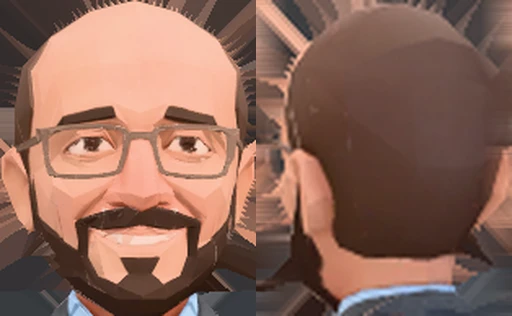
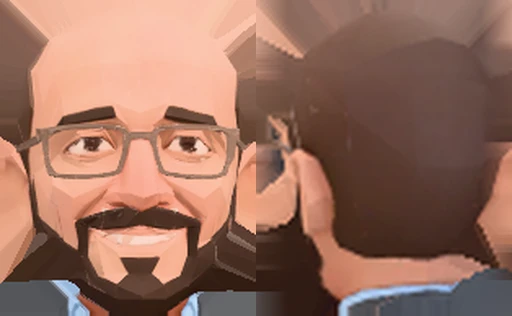
Julo desde todos los ángulos y kipá negra grande para Faur
- Julo: frente de su imagen limpia, perfiles izquierdo y derecho (profundidad real de cabeza y torso
  y textura de los costados), espalda lisa con cinturón y brazos más gruesos
- El armado de cabeza y torso acepta perfiles de costado (cuatro paneles de textura)
- Faur: kipá negra y grande sobre la coronilla

Claude-Session: https://claude.ai/code/session_01GR3Q3hi2WhZwo1w7uuPhJy

diff --git a/shared/public/caras/datos.js b/shared/public/caras/datos.js
@@ -1,3 +1,3 @@
 // Generado desde las capturas de los modelos de Meshy (silueta de frente de cabeza y torso, en metros).
 // No editar a mano: lo arma scripts/caras/texturas.py. Las texturas están al lado: <id>-cabeza.webp, <id>-torso.webp.
-export const DATOS = {"mati":{"cabeza":{"perfil":[[0.0,-0.0572,0.0754],[0.0344,-0.1204,0.1228],[0.0689,-0.1569,0.1679],[0.1033,-0.1812,0.1934],[0.1377,-0.1995,0.2031],[0.1722,-0.2007,0.2043],[0.2066,-0.2007,0.2043],[0.2411,-0.2043,0.208],[0.2755,-0.2043,0.208],[0.3099,-0.2043,0.208],[0.3444,-0.1995,0.2031],[0.3788,-0.191,0.1946],[0.4132,-0.1776,0.1812],[0.4477,-0.1618,0.163],[0.4821,-0.1447,0.1472],[0.5165,-0.1241,0.1253],[0.551,-0.0961,0.0961]],"x0":-0.2043,"x1":0.208,"alto":0.5546},"piel":"#f4c099","pelo":"#443229","cabezaAlto":0.551},"glinsky":{"cabeza":{"perfil":[[0.0,-0.0091,0.0272],[0.0374,-0.1213,0.1281],[0.0748,-0.1825,0.1836],[0.1122,-0.2176,0.2165],[0.1496,-0.2392,0.2426],[0.187,-0.2517,0.2528],[0.2244,-0.2607,0.2585],[0.2619,-0.2687,0.2653],[0.2993,-0.2687,0.2721],[0.3367,-0.2721,0.2755],[0.3741,-0.2698,0.2755],[0.4115,-0.263,0.2675],[0.4489,-0.2494,0.2562],[0.4863,-0.2301,0.246],[0.5237,-0.2086,0.2358],[0.5611,-0.187,0.2244],[0.5985,-0.1644,0.2142]],"x0":-0.2721,"x1":0.2789,"alto":0.6019},"piel":"#fbb294","pelo":"#c2bfbf","cabezaAlto":0.5985,"torso":{"perfil":[[0.0,-0.1621,0.1689],[0.0592,-0.1836,0.1927],[0.1183,-0.2959,0.3004],[0.1775,-0.3197,0.3242],[0.2367,-0.3446,0.348],[0.2959,-0.3673,0.3695],[0.355,-0.3843,0.3843],[0.4142,-0.3843,0.3843],[0.4734,-0.3843,0.3843],[0.5326,-0.2494,0.2539],[0.5917,-0.2324,0.2415]],"x0":-0.3843,"x1":0.3843,"alto":0.5951},"prenda":"#7eafe6"},"julo":{"cabeza":{"perfil":[[0.0,-0.0079,0.0168],[0.0318,-0.0887,0.0944],[0.0636,-0.1415,0.1516],[0.0954,-0.1651,0.173],[0.1272,-0.182,0.1887],[0.159,-0.191,0.1966],[0.1908,-0.2011,0.2056],[0.2226,-0.21,0.2123],[0.2544,-0.2202,0.2213],[0.2862,-0.2224,0.2224],[0.318,-0.2179,0.2202],[0.3498,-0.2011,0.2044],[0.3816,-0.1842,0.1898],[0.4134,-0.1629,0.1707],[0.4452,-0.1427,0.1528],[0.477,-0.1191,0.1292],[0.5088,-0.0988,0.109]],"x0":-0.2224,"x1":0.2224,"alto":0.5122},"piel":"#eca07e","pelo":"#eaae8b","cabezaAlto":0.5088},"dobro":{"cabeza":{"perfil":[[0.0,-0.017,0.0136],[0.0306,-0.0918,0.093],[0.0612,-0.1258,0.1258],[0.0918,-0.1485,0.1496],[0.1224,-0.1564,0.1576],[0.153,-0.1644,0.1655],[0.1836,-0.17,0.17],[0.2142,-0.1757,0.1757],[0.2449,-0.1802,0.1802],[0.2755,-0.1836,0.1836],[0.3061,-0.187,0.187],[0.3367,-0.187,0.187],[0.3673,-0.187,0.187],[0.3979,-0.1904,0.1904],[0.4285,-0.1904,0.1904],[0.4591,-0.1938,0.1938],[0.4897,-0.1938,0.1938]],"x0":-0.1938,"x1":0.1938,"alto":0.4931},"piel":"#f3bb9e","pelo":"#695142","cabezaAlto":0.4897,"torso":{"perfil":[[0.0,-0.1927,0.1961],[0.0639,-0.1904,0.1825],[0.1279,-0.2539,0.2403],[0.1918,-0.2732,0.2585],[0.2557,-0.3106,0.3004],[0.3197,-0.2959,0.2823],[0.3836,-0.3106,0.297],[0.4475,-0.3129,0.3106],[0.5115,-0.3129,0.3095],[0.5754,-0.3129,0.3095],[0.6393,-0.3106,0.3049]],"x0":-0.3129,"x1":0.3129,"alto":0.6427},"prenda":"#191815"},"faur":{"cabeza":{"perfil":[[0.0,-0.0079,0.0282],[0.0408,-0.1161,0.133],[0.0816,-0.1725,0.1894],[0.1224,-0.2097,0.2198],[0.1632,-0.23,0.2379],[0.204,-0.239,0.2469],[0.2448,-0.248,0.2537],[0.2856,-0.257,0.2582],[0.3264,-0.2672,0.2638],[0.3672,-0.2661,0.2638],[0.408,-0.2514,0.2537],[0.4488,-0.2379,0.2424],[0.4896,-0.2232,0.2322],[0.5304,-0.2086,0.221],[0.5711,-0.1939,0.2108],[0.6119,-0.1804,0.1995],[0.6527,-0.1657,0.1894]],"x0":-0.2672,"x1":0.2638,"alto":0.6561},"piel":"#f2a086","pelo":"#fbc3ab","cabezaAlto":0.6527,"torso":{"perfil":[[0.0,-0.1984,0.2018],[0.0538,-0.2976,0.2988],[0.1076,-0.3145,0.3179],[0.1613,-0.3314,0.3371],[0.2151,-0.3506,0.2334],[0.2689,-0.2131,0.2266],[0.3227,-0.2232,0.2255],[0.3764,-0.2277,0.2334],[0.4302,-0.2289,0.2266],[0.484,-0.2367,0.2367],[0.5378,-0.2367,0.2266]],"x0":-0.3551,"x1":0.3484,"alto":0.5411},"prenda":"#403e40"}};
+export const DATOS = {"mati":{"cabeza":{"perfil":[[0.0,-0.0572,0.0754],[0.0344,-0.1204,0.1228],[0.0689,-0.1569,0.1679],[0.1033,-0.1812,0.1934],[0.1377,-0.1995,0.2031],[0.1722,-0.2007,0.2043],[0.2066,-0.2007,0.2043],[0.2411,-0.2043,0.208],[0.2755,-0.2043,0.208],[0.3099,-0.2043,0.208],[0.3444,-0.1995,0.2031],[0.3788,-0.191,0.1946],[0.4132,-0.1776,0.1812],[0.4477,-0.1618,0.163],[0.4821,-0.1447,0.1472],[0.5165,-0.1241,0.1253],[0.551,-0.0961,0.0961]],"x0":-0.2043,"x1":0.208,"alto":0.5546},"piel":"#f4c099","pelo":"#443229","cabezaAlto":0.551},"glinsky":{"cabeza":{"perfil":[[0.0,-0.0091,0.0272],[0.0374,-0.1213,0.1281],[0.0748,-0.1825,0.1836],[0.1122,-0.2176,0.2165],[0.1496,-0.2392,0.2426],[0.187,-0.2517,0.2528],[0.2244,-0.2607,0.2585],[0.2619,-0.2687,0.2653],[0.2993,-0.2687,0.2721],[0.3367,-0.2721,0.2755],[0.3741,-0.2698,0.2755],[0.4115,-0.263,0.2675],[0.4489,-0.2494,0.2562],[0.4863,-0.2301,0.246],[0.5237,-0.2086,0.2358],[0.5611,-0.187,0.2244],[0.5985,-0.1644,0.2142]],"x0":-0.2721,"x1":0.2789,"alto":0.6019},"piel":"#fbb294","pelo":"#c2bfbf","cabezaAlto":0.5985,"torso":{"perfil":[[0.0,-0.1621,0.1689],[0.0592,-0.1836,0.1927],[0.1183,-0.2959,0.3004],[0.1775,-0.3197,0.3242],[0.2367,-0.3446,0.348],[0.2959,-0.3673,0.3695],[0.355,-0.3843,0.3843],[0.4142,-0.3843,0.3843],[0.4734,-0.3843,0.3843],[0.5326,-0.2494,0.2539],[0.5917,-0.2324,0.2415]],"x0":-0.3843,"x1":0.3843,"alto":0.5951},"prenda":"#7eafe6"},"julo":{"cabeza":{"perfil":[[0.0,-0.0258,0.0339,-0.1021,-0.0578],[0.0399,-0.1315,0.1369,-0.2329,0.055],[0.0798,-0.1857,0.1897,-0.2893,0.1203],[0.1197,-0.2128,0.2168,-0.3191,0.153],[0.1596,-0.2304,0.2345,-0.3369,0.1738],[0.1995,-0.2399,0.2453,-0.3547,0.1886],[0.2394,-0.2521,0.2575,-0.3696,0.1886],[0.2793,-0.2629,0.2684,-0.3844,0.1886],[0.3192,-0.2724,0.2792,-0.3904,0.1827],[0.3591,-0.2765,0.2805,-0.3992,0.1796],[0.399,-0.2656,0.2724,-0.4052,0.1767],[0.4389,-0.2507,0.2575,-0.4022,0.1708],[0.4788,-0.2304,0.2426,-0.3814,0.1678],[0.5187,-0.2101,0.2263,-0.3607,0.1618],[0.5586,-0.1938,0.2128,-0.3369,0.1589],[0.5985,-0.1735,0.1979,-0.3191,0.1559],[0.6384,-0.1545,0.183,-0.2448,0.1499]],"x0":-0.2765,"x1":0.2805,"alto":0.6424,"lados":{"izq":[-0.4129,0.1845],"der":[-0.3975,0.1927]}},"piel":"#e9b296","pelo":"#efc4ab","cabezaAlto":0.6384,"torso":{"perfil":[[0.0,-0.1938,0.1979,-0.153,0.1559],[0.0598,-0.3049,0.3063,-0.2064,0.1677],[0.1195,-0.3321,0.3348,-0.2213,0.1856],[0.1793,-0.2697,0.2697,-0.2272,0.1855],[0.2391,-0.2277,0.2277,-0.2063,0.1826],[0.2988,-0.2277,0.2277,-0.1885,0.1855],[0.3586,-0.2277,0.2277,-0.1707,0.1855],[0.4184,-0.2277,0.2277,-0.1558,0.1945],[0.4782,-0.2277,0.2277,-0.1737,0.1975],[0.5379,-0.2277,0.2277,-0.2032,0.1856],[0.5977,-0.2277,0.2277,-0.209,0.1796]],"x0":-0.3537,"x1":0.3537,"alto":0.6018},"prenda":"#5d372f"},"dobro":{"cabeza":{"perfil":[[0.0,-0.017,0.0136],[0.0306,-0.0918,0.093],[0.0612,-0.1258,0.1258],[0.0918,-0.1485,0.1496],[0.1224,-0.1564,0.1576],[0.153,-0.1644,0.1655],[0.1836,-0.17,0.17],[0.2142,-0.1757,0.1757],[0.2449,-0.1802,0.1802],[0.2755,-0.1836,0.1836],[0.3061,-0.187,0.187],[0.3367,-0.187,0.187],[0.3673,-0.187,0.187],[0.3979,-0.1904,0.1904],[0.4285,-0.1904,0.1904],[0.4591,-0.1938,0.1938],[0.4897,-0.1938,0.1938]],"x0":-0.1938,"x1":0.1938,"alto":0.4931},"piel":"#f3bb9e","pelo":"#695142","cabezaAlto":0.4897,"torso":{"perfil":[[0.0,-0.1927,0.1961],[0.0639,-0.1904,0.1825],[0.1279,-0.2539,0.2403],[0.1918,-0.2732,0.2585],[0.2557,-0.3106,0.3004],[0.3197,-0.2959,0.2823],[0.3836,-0.3106,0.297],[0.4475,-0.3129,0.3106],[0.5115,-0.3129,0.3095],[0.5754,-0.3129,0.3095],[0.6393,-0.3106,0.3049]],"x0":-0.3129,"x1":0.3129,"alto":0.6427},"prenda":"#191815"},"faur":{"cabeza":{"perfil":[[0.0,-0.0079,0.0282],[0.0408,-0.1161,0.133],[0.0816,-0.1725,0.1894],[0.1224,-0.2097,0.2198],[0.1632,-0.23,0.2379],[0.204,-0.239,0.2469],[0.2448,-0.248,0.2537],[0.2856,-0.257,0.2582],[0.3264,-0.2672,0.2638],[0.3672,-0.2661,0.2638],[0.408,-0.2514,0.2537],[0.4488,-0.2379,0.2424],[0.4896,-0.2232,0.2322],[0.5304,-0.2086,0.221],[0.5711,-0.1939,0.2108],[0.6119,-0.1804,0.1995],[0.6527,-0.1657,0.1894]],"x0":-0.2672,"x1":0.2638,"alto":0.6561},"piel":"#f2a086","pelo":"#fbc3ab","cabezaAlto":0.6527,"torso":{"perfil":[[0.0,-0.1984,0.2018],[0.0538,-0.2976,0.2988],[0.1076,-0.3145,0.3179],[0.1613,-0.3314,0.3371],[0.2151,-0.3506,0.2334],[0.2689,-0.2131,0.2266],[0.3227,-0.2232,0.2255],[0.3764,-0.2277,0.2334],[0.4302,-0.2289,0.2266],[0.484,-0.2367,0.2367],[0.5378,-0.2367,0.2266]],"x0":-0.3551,"x1":0.3484,"alto":0.5411},"prenda":"#403e40"}};

diff --git a/shared/public/persona3d.js b/shared/public/persona3d.js
@@ -549,18 +549,33 @@ function texturaCompartida(THREE, url) {
 }
 
 // perfil: filas [y hacia abajo, x izquierda, x derecha] (m). Devuelve una malla con el tope en y=0.
-function silueta(THREE, perfil, { x0, x1, alto }, { prof = () => 1, p = .85, segs = 12, nariz = 0 } = {}) {
+function silueta(THREE, perfil, { x0, x1, alto, lados = null }, { prof = () => 1, p = .85, segs = 12, nariz = 0 } = {}) {
   const pos = [], uv = [];
-  const U = (x, frente) => { const k = Math.min(1, Math.max(0, (x - x0) / (x1 - x0))); return frente ? k * .5 : .5 + (1 - k) * .5; };
+  // Con perfiles de costado (filas [y, xl, xr, zf, zb]) la profundidad sale de las capturas de perfil, y la
+  // textura tiene cuatro paneles: frente | espalda | costado izquierdo | costado derecho.
+  const conProf = perfil[0].length >= 5;
+  const paneles = lados ? 4 : 2, ancho = 1 / paneles;
+  if (lados) segs = 16;
+  const region = (t) => { const c = Math.cos(t); if (!lados) return c > 0 ? 'frente' : 'espalda'; if (c > .7071) return 'frente'; if (c < -.7071) return 'espalda'; return Math.sin(t) < 0 ? 'izq' : 'der'; };
+  const U = (v, reg) => {
+    const x = v[0], z = v[2];
+    if (reg === 'frente' || reg === 'espalda') {
+      const k = Math.min(1, Math.max(0, (x - x0) / (x1 - x0)));
+      return reg === 'frente' ? k * ancho : ancho + (1 - k) * ancho;
+    }
+    const [zmin, zmax] = lados[reg];
+    const k = Math.min(1, Math.max(0, (z - zmin) / (zmax - zmin)));
+    return (reg === 'izq' ? 2 : 3) * ancho + k * ancho;
+  };
   const V = (y) => 1 - Math.min(1, Math.max(0, y / alto));
-  const anillos = perfil.map(([y, xl, xr]) => {
+  const anillos = perfil.map(([y, xl, xr, zf, zb]) => {
     const xm = (xl + xr) / 2, hw = Math.max(.006, (xr - xl) / 2), hd = hw * prof(y / alto);
     const pts = [];
     for (let j = 0; j <= segs; j++) {
       const t = (j / segs) * Math.PI * 2, sn = Math.sin(t), cs = Math.cos(t);
-      let z = -hd * Math.sign(cs) * Math.abs(cs) ** p;
+      let z = conProf ? (cs > 0 ? zf : zb) * Math.abs(cs) ** p : -hd * Math.sign(cs) * Math.abs(cs) ** p;
       // nariz: la columna del medio se adelanta a la altura de la nariz
-      if (nariz && cs > .8) z -= nariz * hw * Math.exp(-((((y / alto) - .62) / .1) ** 2)) * (cs - .8) * 5;
+      if (nariz && !conProf && cs > .8) z -= nariz * hw * Math.exp(-((((y / alto) - .62) / .1) ** 2)) * (cs - .8) * 5;
       pts.push([xm + hw * Math.sign(sn) * Math.abs(sn) ** p, -y, z]);
     }
     return pts;
@@ -574,15 +589,15 @@ function silueta(THREE, perfil, { x0, x1, alto }, { prof = () => 1, p = .85, seg
     const l = Math.hypot(...n) || 1; return n.map((x) => x / l);
   }));
   const nor = [];
-  const tri = (a, b, c, frente, na = null) => {
-    for (const [v, n] of [a, b, c]) { pos.push(v[0], v[1], v[2]); uv.push(U(v[0], frente), V(-v[1])); nor.push(...(na || n)); }
+  const tri = (a, b, c, reg) => {
+    for (const [v, n] of [a, b, c]) { pos.push(v[0], v[1], v[2]); uv.push(U(v, reg), V(-v[1])); nor.push(...n); }
   };
   for (let i = 0; i < anillos.length - 1; i++) {
     for (let j = 0; j < segs; j++) {
-      const frente = Math.cos(((j + .5) / segs) * Math.PI * 2) > 0;
+      const reg = region(((j + .5) / segs) * Math.PI * 2);
       const P = (ii, jj) => [anillos[ii][jj], N[ii][jj]];
       const a = P(i, j), b = P(i, j + 1), c = P(i + 1, j + 1), d = P(i + 1, j);
-      tri(a, b, d, frente); tri(b, c, d, frente);
+      tri(a, b, d, reg); tri(b, c, d, reg);
     }
   }
   // tapas arriba y abajo
@@ -591,9 +606,9 @@ function silueta(THREE, perfil, { x0, x1, alto }, { prof = () => 1, p = .85, seg
     const centro = [cx, r[0][1], cz];
     const n = [0, abajo ? -1 : 1, 0];
     for (let j = 0; j < segs; j++) {
-      const frente = Math.cos(((j + .5) / segs) * Math.PI * 2) > 0;
+      const reg = region(((j + .5) / segs) * Math.PI * 2);
       const c0 = [centro, n], c1 = [r[j], n], c2 = [r[j + 1], n];
-      if (abajo) tri(c0, c2, c1, frente); else tri(c0, c1, c2, frente);
+      if (abajo) tri(c0, c2, c1, reg); else tri(c0, c1, c2, reg);
     }
   }
   const g = new THREE.BufferGeometry();
@@ -716,15 +731,16 @@ function crearPersonaFoto(THREE, L, F, opciones = {}) {
     bola(.035, mat('#ff9b73', { emissive: '#ff704e', emissiveIntensity: .8 }), cabeza, 0, altoCabeza + .14, .02);
   }
   if (F.kipa) {
-    const k = pieza(new THREE.SphereGeometry(.16, 10, 4, 0, Math.PI * 2, 0, Math.PI * .32), mat(F.kipa), 0, altoCabeza - .12, .11, cabeza);
-    k.rotation.x = .55;
+    const r = F.kipaGrande ? .23 : .16; // kipá grande: tapa buena parte de la coronilla
+    const k = pieza(new THREE.SphereGeometry(r, 14, 4, 0, Math.PI * 2, 0, Math.PI * .3), mat(F.kipa, { roughness: .6 }), 0, altoCabeza - r * .93, .035, cabeza);
+    k.rotation.x = .3; k.scale.set(1.04, 1, 1.12);
   }
 
   // --- brazos (hombro, codo y mano)
   const hombroY = menton - alturaCadera - (F.torso ? .13 : .085);
   const largoBrazo = (menton - (F.torso ? .13 : .085)) - ALTO * .235;
   const brazo = largoBrazo * .43, antebrazo = largoBrazo * .37;
-  const rBrazo = Math.max(.06, Math.min(.075, anchoHombro * .24));
+  const rBrazo = F.brazo || Math.max(.06, Math.min(.075, anchoHombro * .24));
   const manga = F.mangas === 'larga';
   const brazos = [-1, 1].map((s) => {
     const hombro = new THREE.Group(); hombro.position.set(s * (anchoHombro - rBrazo * (F.torso ? 1.25 : .25)), hombroY, .01); torso.add(hombro);

diff --git a/shared/public/caras/perfiles.js b/shared/public/caras/perfiles.js
@@ -8,12 +8,9 @@ const CUERPOS = {
     pantalon: '#17171a', zapatos: '#121212', reloj: '#0e0e10', celular: true, pose: 'celular',
   },
   glinsky: { prenda: '#a2cbf2', mangas: 'corta', puno: '#a2cbf2', pantalon: '#7a695d', cinturon: '#764e37', zapatos: '#8d532e' },
-  julo: {
-    cinto: .66, hombros: .265, cintura: .225, escalaCabeza: 1.14, prenda: '#121314', mangas: 'corta', cuello: 'v',
-    pantalon: '#5c6067', cinturon: '#7a4b2c', zapatos: '#77401f', botas: true,
-  },
+  julo: { brazo: .085, prenda: '#141516', mangas: 'corta', puno: '#141516', pantalon: '#6b6e73', cinturon: '#7a4b2c', zapatos: '#7a4422', botas: true },
   dobro: { prenda: '#1b1a1a', mangas: 'larga', puno: '#f2efe9', pantalon: '#1b1a1a', cinturon: '#8a5a35', zapatos: '#8f5531' },
-  faur: { prenda: '#535256', mangas: 'larga', puno: '#a9cdef', pantalon: '#7b665b', cinturon: '#6e4a33', zapatos: '#6a3c26', kipa: '#1d2c5e' },
+  faur: { prenda: '#535256', mangas: 'larga', puno: '#a9cdef', pantalon: '#7b665b', cinturon: '#6e4a33', zapatos: '#6a3c26', kipa: '#111113', kipaGrande: true },
 };
 
 export const PERFILES = Object.fromEntries(

diff --git a/scripts/caras/texturas.py b/scripts/caras/texturas.py
@@ -8,12 +8,12 @@ ALTO=1.85  # metros
 C={
  'mati':   dict(f='28.png',box=None,menton=200,cinto=None, pelo=(0,.78,'pelo'), torso=False),
  'glinsky':dict(f='24.webp',box=(690,280,1110,860),menton=195,cinto=372,pelo=(0,.8,'pelo'), torso=True),
- 'julo':   dict(f='30.png',box=None,menton=170,cinto=None,pelo=None, torso=False),
+ 'julo':   dict(f='42.png',box=(60,10,310,570),menton=212,cinto=362,pelo=None, torso=True, ajustarTorso=.98, espaldaLisa=True, lados={'izq':('38.png',None),'der':('40.png',None)}),
  'dobro':  dict(croma=True,f='31.png',box=None,menton=201,cinto=392,pelo=(0,.8,'pelo'), torso=True),
  'faur':   dict(f='32.png',box=None,menton=238,cinto=400,pelo=(.32,.82,'fleco'), torso=True),
 }
 ESPALDAS={'faur':('33.png',False),'julo':('34.png',False),'glinsky':('35.png',False),'dobro':('36.png',True),'mati':('37.png',False,(120,110,300,470))}
-def espalda(k, ancho, alto, torsoRel=None, tamTorso=None):
+def espalda(k, ancho, alto, torsoRel=None, tamTorso=None, ajuste=True):
     # recorta la nuca (y la espalda) de la captura de atrás, del mismo tamaño que el frente
     f,croma,*caja=ESPALDAS[k]
     pil=Image.open(IMG+f).convert('RGB')
@@ -34,9 +34,46 @@ def espalda(k, ancho, alto, torsoRel=None, tamTorso=None):
     if torsoRel:
         y1=min(bot-5,cuello+int((cuello-top)*torsoRel))
         rr=corrida(m[cuello+3],hx); cx=(rr[0]+rr[1])//2
-        tor,_,_=parte(im,mt,cuello+2,y1,cx,10,1,limitar=True)
+        tor,_,_=parte(im,mt,cuello+2,y1,cx,10,1,limitar=ajuste)
         tor=np.asarray(Image.fromarray(tor.astype('uint8')).resize(tamTorso,Image.LANCZOS)).astype(float)[:, ::-1]
     return cab,tor
+def lado(f, box, cara_izq, alto_cab_m, torsoRel, nfc=16, nft=10):
+    # perfil de costado: profundidad (adelante/atrás) de cada fila de la cabeza y del torso, y la textura del costado
+    pil=Image.open(IMG+f).convert('RGB')
+    if box: pil=pil.crop(box)
+    im=np.asarray(pil).astype(int); m=mascara(im)
+    rows=np.where(m.sum(1)>3)[0]; top,bot=int(rows[0]),int(rows[-1]); H=bot-top
+    best=None
+    for y in range(top+int(H*.15),top+int(H*.42)):
+        if not m[y].any(): continue
+        r=corrida(m[y],int(np.where(m[y])[0].mean()))
+        if r and (best is None or r[1]-r[0]<best[1]): best=(y,r[1]-r[0])
+    cuello=best[0]; rr=corrida(m[cuello],int(np.where(m[cuello])[0].mean())); nc=(rr[0]+rr[1]+1)/2
+    mpp=alto_cab_m/(cuello-top)
+    mh=envolvente(m,top,cuello)
+    def z(a,b):
+        return ((a-nc)*mpp,(b+1-nc)*mpp) if cara_izq else (-(b+1-nc)*mpp,-(a-nc)*mpp)
+    cab=[]
+    for i in range(nfc+1):
+        y=top+int(round(i/nfc*(cuello-top))); r=corrida(mh[y],int(nc)) or (int(nc)-1,int(nc)+1); cab.append(z(*r))
+    # textura del costado de la cabeza (la cara queda a la izquierda)
+    xs=np.where(mh[top:cuello+1].any(0))[0]; a0,b0=int(xs.min()),int(xs.max())
+    rec=im[top:cuello+1,a0:b0+1]; mm=m[top:cuello+1,a0:b0+1]&mh[top:cuello+1,a0:b0+1]
+    rec=rellenar(rec,mm)
+    if not cara_izq: rec=rec[:, ::-1]
+    zmin,zmax=z(a0,b0)
+    tor=[]
+    y1=min(bot-5,cuello+int((cuello-top)*torsoRel))
+    anchos=[]
+    for i in range(nft+1):
+        y=cuello+2+int(round(i/nft*(y1-cuello-2))); r=corrida(m[y],int(nc)) or (int(nc)-1,int(nc)+1); anchos.append(r)
+    # el brazo que cuelga al costado ensancha el perfil: se limita a la mediana del pecho
+    w=np.median([b-a for a,b in anchos[2:7]])*1.08
+    for a,b in anchos:
+        c=(a+b)/2
+        if b-a>w: a,b=c-w/2,c+w/2
+        tor.append(z(a,b))
+    return dict(cab=cab,tor=tor,tex=rec,ext=(round(zmin,4),round(zmax,4)))
 def cargar(c):
     p=Image.open(IMG+c['f']).convert('RGB')
     if c['box']: p=p.crop(c['box'])
@@ -58,6 +95,9 @@ def corrida(fila, cx):
     q=np.where(lab==l)[0]; return int(q.min()),int(q.max())
 def rellenar(arr, m):
     # cada pixel fuera de la máscara toma el color del pixel de la máscara más cercano
+    # (antes se achica la máscara: los bordes mezclan figura y fondo)
+    e=ndimage.binary_erosion(m,iterations=2)
+    if e.sum()>m.sum()*.6: m=e
     idx=ndimage.distance_transform_edt(~m,return_distances=False,return_indices=True)
     return arr[idx[0],idx[1]]
 def envolvente(m,y0,y1):
@@ -77,7 +117,11 @@ def parte(im,m,y0,y1,cx,filas,escala,minimo=3,mtex=None,limitar=False):
     if limitar:
         # abajo del pecho, que las manos o los puños pegados no ensanchen el torso
         n=len(xl); mid=slice(int(n*.35),int(n*.6)); hw=np.median((xr-xl)[mid])/2*1.06
-        for i in range(int(n*.5),n):
+        desde=int(n*.5)
+        if limitar is not True:
+            # brazos pegados al cuerpo: se recorta al ancho del cinturón desde abajo de las mangas
+            hw=min(cx-xl[-3:].mean(), xr[-3:].mean()-cx)*limitar; desde=int(n*.3)
+        for i in range(desde,n):
             xl[i]=max(xl[i],cx-hw); xr[i]=min(xr[i],cx+hw)
     # suavizar un poco el contorno
     xl=ndimage.uniform_filter1d(xl.astype(float),3); xr=ndimage.uniform_filter1d(xr.astype(float),3)
@@ -146,16 +190,43 @@ for k,c in C.items():
             t=j/(Wc-1)  # 0 = borde derecho de la cara, 1 = borde izquierdo (espalda espejada)
             k1=max(0,1-t/.12)*.6; k2=max(0,(t-.88)/.12)*.6
             esp[i,j]=esp[i,j]*(1-k1-k2)+Rc*k1+Lc*k2
-    atlas(cab,esp).save(OUT+f'{k}-cabeza.webp',quality=90)
-    d=dict(cabeza=dict(perfil=perf,**dim),piel=piel,pelo=pelo,
+    lados=None
+    if c.get('lados'):
+        altoCab=(c['menton']-top)*esc; trel=((c['cinto']-c['menton'])/(c['menton']-top)) if c.get('cinto') else .9
+        L=lado(*c['lados']['izq'],True,altoCab,trel); R=lado(*c['lados']['der'],False,altoCab,trel)
+        for i in range(len(perf)):
+            zf=(L['cab'][i][0]+R['cab'][i][0])/2; zb=(L['cab'][i][1]+R['cab'][i][1])/2
+            perf[i]+= [round(zf,4), round(zb,4)]
+        lados=dict(izq=L['ext'],der=R['ext'])
+        Hc,Wc2=cab.shape[:2]
+        pi=np.asarray(Image.fromarray(L['tex'].astype('uint8')).resize((Wc2,Hc),Image.LANCZOS)).astype(float)
+        pd=np.asarray(Image.fromarray(R['tex'].astype('uint8')).resize((Wc2,Hc),Image.LANCZOS)).astype(float)
+        hh=int(round(cab.shape[0]*256/cab.shape[1]))
+        A=Image.new('RGB',(1024,hh))
+        for n,arr in enumerate([cab,esp,pi,pd]): A.paste(Image.fromarray(arr.astype('uint8')).resize((256,hh),Image.LANCZOS),(256*n,0))
+        A.save(OUT+f'{k}-cabeza.webp',quality=90)
+        c['_lados']=(L,R)
+    else:
+        atlas(cab,esp).save(OUT+f'{k}-cabeza.webp',quality=90)
+    d=dict(cabeza=dict(perfil=perf,**dim,**({'lados':lados} if lados else {})),piel=piel,pelo=pelo,
            cabezaAlto=round((c['menton']-top)*esc,4))
     if c['torso'] and c['cinto']:
-        tor,perft,dimt=parte(im,mt,c['menton']+3,c['cinto'],cx,10,esc,limitar=True)
+        tor,perft,dimt=parte(im,mt,c['menton']+3,c['cinto'],cx,10,esc,limitar=c.get('ajustarTorso',True))
         # espalda: color del costado del torso (la prenda de afuera)
-        lado=mediana(im,m,c['menton']+int((c['cinto']-c['menton'])*.55),c['menton']+int((c['cinto']-c['menton'])*.7),int(cx-(dimt['x1']-dimt['x0'])/esc*.38),int(cx-(dimt['x1']-dimt['x0'])/esc*.3))
-        _,esp=espalda(k,cab.shape[1],cab.shape[0],torsoRel=(c['cinto']-c['menton'])/(c['menton']-top),tamTorso=(tor.shape[1],tor.shape[0]))
+        colorLado=mediana(im,m,c['menton']+int((c['cinto']-c['menton'])*.55),c['menton']+int((c['cinto']-c['menton'])*.7),int(cx-(dimt['x1']-dimt['x0'])/esc*.38),int(cx-(dimt['x1']-dimt['x0'])/esc*.3))
+        _,esp=espalda(k,cab.shape[1],cab.shape[0],torsoRel=(c['cinto']-c['menton'])/(c['menton']-top),tamTorso=(tor.shape[1],tor.shape[0]),ajuste=c.get('ajustarTorso',True))
+        if c.get('espaldaLisa'):
+            # remera lisa: atrás va el color de la remera y el cinturón abajo (las capturas de espalda están caminando)
+            Ht=tor.shape[0]; ccx=tor.shape[1]//2
+            ropa=np.median(tor[int(Ht*.4):int(Ht*.7), ccx-5:ccx+5].reshape(-1,3),0)
+            cint=np.median(tor[int(Ht*.94):, ccx-25:ccx-12].reshape(-1,3),0)
+            esp=np.zeros_like(tor,dtype=float); esp[:]=ropa; esp[int(Ht*.9):]=cint
         atlas(tor,esp).save(OUT+f'{k}-torso.webp',quality=90)
-        d['torso']=dict(perfil=perft,**dimt); d['prenda']=lado
+        if c.get('_lados'):
+            L,R=c['_lados']
+            for i in range(len(perft)):
+                perft[i]+= [round((L['tor'][i][0]+R['tor'][i][0])/2,4), round((L['tor'][i][1]+R['tor'][i][1])/2,4)]
+        d['torso']=dict(perfil=perft,**dimt); d['prenda']=colorLado
     datos[k]=d
     print(k,'piel',piel,'pelo',pelo,'cabeza',dim, 'torso' in d and d['prenda'])
 json.dump(datos,open('perfiles.json','w'))
